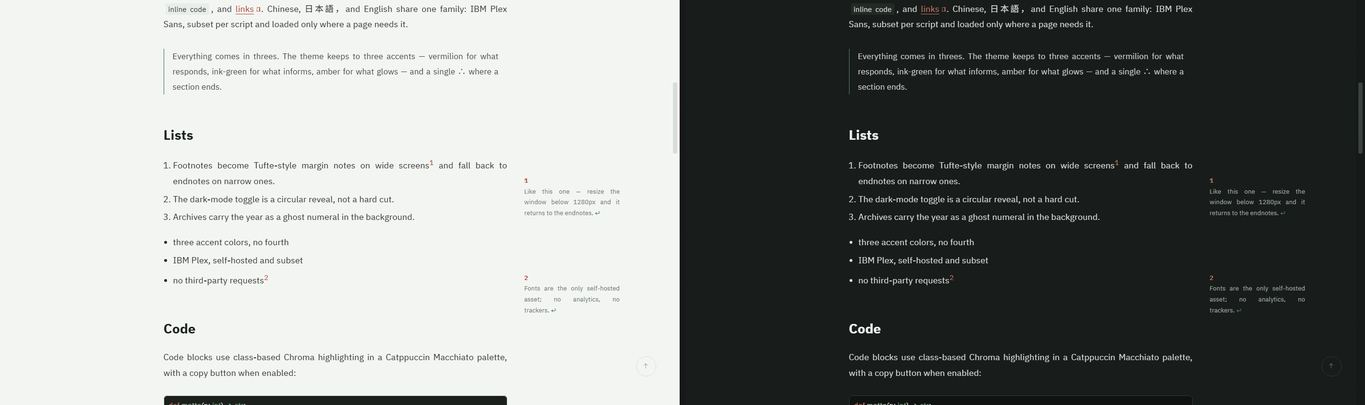
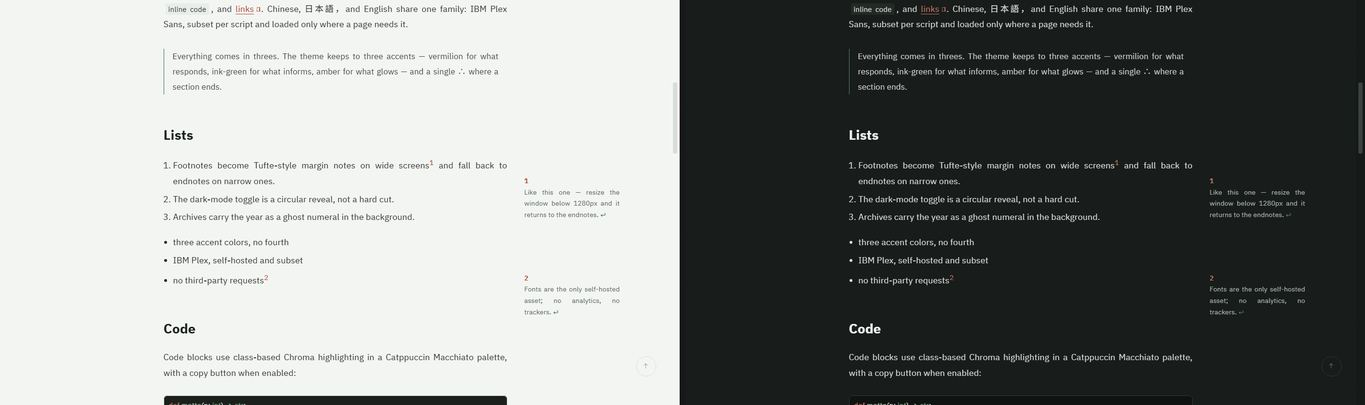
feat(demo): multilingual demo, sidenote content-loss fix, sidenote polish
Demo showcase + two real fixes surfaced by building it out.

Theme fixes (affect all sites):
- layouts/partials/extend_head.html + sigil.css + print.css: sidenotes
  only hid the endnotes when EVERY footnote converted. Previously any
  single .sidenote hid the whole endnote list, so a footnote whose
  reference sits outside p/li (e.g. a table cell) was silently dropped on
  wide screens. Now a `.sg-sidenotes-complete` class is set only when all
  notes moved to the margin; the hide rules key off it. Verified in a
  browser: all-in-paragraph hides endnotes; a mixed table keeps them.
- layouts/partials/header.html: `site.GetPage .KeyName` throws "ambiguous"
  and aborts the whole page on multilingual sites (same menu identifier in
  several languages). Guard with try + URL fallback; single-language
  behavior unchanged.
- sidenote typography: 13px -> 14px, color var(--sg-note) slightly stronger
  than --secondary (light 4.64->5.72:1, dark 7.7->9.11:1); vermilion number
  kept. Still clearly subordinate to body text.

Demo content:
- Multilingual: zh-cn + ja translations of all three posts + about, via
  filename-suffix convention; language switcher now works (中文/日本語/English).
- api.md rewritten as a pointer to docs/api.md (no more duplicated API doc
  that drifted); config-example.md and api.md: LLMSTXTFULL -> LLMSFULL and
  the ogCardFont note corrected (theme ships a Latin Plex Serif; build-fonts
  is for webfonts, not OG TTFs).
[…]

diff --git a/layouts/partials/extend_head.html b/layouts/partials/extend_head.html
@@ -140,7 +140,8 @@
     function build() {
         if (!document.querySelector(".post-content") || !document.querySelector(".footnotes")) return;
         if (!(window.CSS && CSS.supports && CSS.supports("selector(:has(a))"))) return;
-        document.querySelectorAll('.footnotes ol > li[id^="fn:"]').forEach(function (li) {
+        var notes = document.querySelectorAll('.footnotes ol > li[id^="fn:"]');
+        notes.forEach(function (li) {
             var num = li.id.slice(3);
             var ref = document.querySelectorAll('a[href="#fn:' + num + '"]')[0];
             if (!ref) return;
@@ -163,6 +164,20 @@
             ref.addEventListener("mouseenter", function () { point(true); });
             ref.addEventListener("mouseleave", function () { point(false); });
         });
+        // Only hide the endnotes when EVERY footnote moved to the margin.
+        // Recount from the DOM so repeated build() calls (load + 1.5s fallback)
+        // stay correct; a footnote whose reference sits outside p/li (e.g. a
+        // table cell) stays an endnote, so the set is not complete and the
+        // endnotes must remain visible — hiding them would lose that note.
+        var converted = 0;
+        notes.forEach(function (li) {
+            var num = li.id.slice(3);
+            if (document.querySelector('.sidenote[data-for="fn:' + num + '"]')) converted++;
+        });
+        var content = document.querySelector(".post-content");
+        if (content) {
+            content.classList.toggle("sg-sidenotes-complete", notes.length > 0 && converted === notes.length);
+        }
     }
     ready(build);
     window.addEventListener("load", build);

diff --git a/layouts/partials/header.html b/layouts/partials/header.html
@@ -69,7 +69,15 @@
             {{- range site.Menus.main }}
             {{- $menu_item_url := (cond (strings.HasSuffix .URL "/") .URL (printf "%s/" .URL) ) | absLangURL }}
             {{- $page_url:= $currentPage.Permalink | absLangURL }}
-            {{- $is_search := eq (site.GetPage .KeyName).Layout `search` }}
+            {{- /* 搜索项判定:按 KeyName 取页面 Layout。多语言站点下同一 identifier
+                 可能对应多个语言版本,site.GetPage 会报歧义而中断整页渲染——
+                 用 try 兜底,拿不到就退回按 URL 判断,保证单/多语言都不炸。 */ -}}
+            {{- $is_search := false -}}
+            {{- with try (site.GetPage .KeyName) -}}
+            {{- with .Value -}}{{- if eq .Layout "search" -}}{{- $is_search = true -}}{{- end -}}{{- end -}}
+            {{- else -}}
+            {{- if strings.HasSuffix .URL "/search/" -}}{{- $is_search = true -}}{{- end -}}
+            {{- end -}}
             <li>
                 <a href="{{ .URL | absLangURL }}" title="{{ .Title | default .Name }} {{- cond $is_search (" (Alt + /)" | safeHTMLAttr) ("" | safeHTMLAttr ) }}"
                 {{- cond $is_search (" accesskey=/" | safeHTMLAttr) ("" | safeHTMLAttr ) }}

diff --git a/assets/css/extended/sigil.css b/assets/css/extended/sigil.css
@@ -7,6 +7,7 @@
     --entry: #fbfcfa;
     --primary: #1d2420;
     --secondary: #68716b;
+    --sg-note: #5a635d; /* sidenote text: a touch stronger than secondary for margin legibility */
     --tertiary: #d8ddd9;
     --content: #252c28;
     --code-block-bg: #1b201d;
@@ -44,6 +45,7 @@ body {
     --entry: #1b201d;
     --primary: #eef1ed;
     --secondary: #a4ada7;
+    --sg-note: #b3bcb6;
     --tertiary: #3a433e;
     --content: #d9ded9;
     --code-block-bg: #101311;
@@ -2552,10 +2554,10 @@ html .header {
         clear: right;
         width: var(--note-w);
         margin: 4px calc(-1 * var(--note-w) - 36px) 18px 20px;
-        color: var(--secondary);
+        color: var(--sg-note);
         font-family: var(--sg-sans);
-        font-size: 13px;
-        line-height: 1.75;
+        font-size: 14px;
+        line-height: 1.7;
     }
 
     .sidenote .sidenote-number {
@@ -2578,7 +2580,7 @@ html .header {
         text-underline-offset: 3px;
     }
 
-    .post-content:has(.sidenote) .footnotes {
+    .post-content.sg-sidenotes-complete .footnotes {
         display: none;
     }
 }

diff --git a/assets/css/common/print.css b/assets/css/common/print.css
@@ -37,7 +37,7 @@
         font-size: 0.85em;
     }
 
-    .post-content:has(.sidenote) .footnotes {
+    .post-content.sg-sidenotes-complete .footnotes {
         display: none;
     }
 

diff --git a/exampleSite/content/posts/typography/index.ja.md b/exampleSite/content/posts/typography/index.ja.md
@@ -1,0 +1,55 @@
+---
+title: "組版"
+translationKey: "post-typography"
+categories:
+  - demo
+date: 2026-01-14
+slug: typography
+tags:
+  - demo
+  - typography
+math: true
+mermaid: true
+lightbox: true
+---
+
+Sigil はすべて三つ組：朱は応答、墨绿は情報、琥珀は輝き、
+段落の終わりに ∴ を置く。中文・日本語・English は IBM Plex Sans を共用し、
+脚本ごとにサブセットして必要なときだけ読み込む。[^fonts]
+
+広い画面では脚注が Tufte 式の辺注になり[^sidenote]、狭い画面では文末に戻る。
+
+## リスト
+
+1. 広画面は辺注、狭画面は文末脚注
+2. 円形に展開するダークモード切り替え
+3. ゴースト数字の年号アーカイブ
+
+- 強調色は三つ、四つ目はない
+- IBM Plex、自前ホストでサブセット
+- 第三者のリクエストは一切なし[^noreq]
+
+## コード
+
+```python
+def matte(r: int) -> str:
+    return "∴" * r
+```
+
+## 数式
+
+インライン $e^{i\pi} + 1 = 0$、そして：
+
+$$\zeta(s) = \sum_{n=1}^{\infty} \frac{1}{n^s}$$
+
+## 図
+
+```mermaid
+graph LR
+    A[紙] --> B[墨]
+    B --> C[∴]
+```
+
+[^fonts]: フォントは唯一の自前ホスト資産。解析も追跡もない。
+[^sidenote]: このように——ウィンドウを 1280px 未満にすると文末脚注に戻る。↩
+[^noreq]: 数式と図はページ単位で有効化。無効のページでは読み込まれない。

diff --git a/exampleSite/content/posts/typography/index.zh-cn.md b/exampleSite/content/posts/typography/index.zh-cn.md
@@ -1,0 +1,55 @@
+---
+title: "排版"
+translationKey: "post-typography"
+categories:
+  - demo
+date: 2026-01-14
+slug: typography
+tags:
+  - demo
+  - typography
+math: true
+mermaid: true
+lightbox: true
+---
+
+Sigil 的一切都成三：朱红标记会回应你的操作，墨绿承载信息，琥珀点亮高光，
+段落结尾落一个 ∴。中文、日本語与 English 共用 IBM Plex Sans，
+按脚本分子集、只在需要时加载。[^fonts]
+
+宽屏上，脚注会变成 Tufte 式边注[^sidenote]；窄屏则收回文末。
+
+## 列表
+
+1. 宽屏边注、窄屏尾注
+2. 圆形展开的暗色切换
+3. 幽灵数字年份的归档
+
+- 三个强调色，没有第四个
+- IBM Plex，自托管并子集化
+- 无任何第三方请求[^noreq]
+
+## 代码
+
+```python
+def matte(r: int) -> str:
+    return "∴" * r
+```
+
+## 公式
+
+行内 $e^{i\pi} + 1 = 0$，以及：
+
+$$\zeta(s) = \sum_{n=1}^{\infty} \frac{1}{n^s}$$
+
+## 图表
+
+```mermaid
+graph LR
+    A[纸] --> B[墨]
+    B --> C[∴]
+```
+
+[^fonts]: 字体是唯一自托管的资源；没有分析、没有追踪。
+[^sidenote]: 就像这条——把窗口缩到 1280px 以下，它会回到尾注。↩
+[^noreq]: 数学与图表按页面开启，未开启的页面一律不加载。

diff --git a/exampleSite/content/config-example.md b/exampleSite/content/config-example.md
@@ -75,7 +75,7 @@ The theme can advertise itself to machines as well as humans:
 
 ```toml
 [outputs]
-  home = ["HTML", "RSS", "JSON", "LLMSTXT", "LLMSTXTFULL", "JSONFeed"]
+  home = ["HTML", "RSS", "JSON", "LLMSTXT", "LLMSFULL", "JSONFeed"]
 
 [params]
   llmsTxtIntro = "A slow blog about X and Y."
@@ -89,7 +89,10 @@ paper background). The font must cover your titles' script:
 ```toml
 [params]
   ogAutoCard = true
-  ogCardFont = "fonts/og/og-card.ttf"   # build it with scripts/build-fonts.sh
+  # Optional: point at a TTF that covers your titles' script. The theme
+  # ships a Latin IBM Plex Serif by default (assets/og/plex-serif-regular.ttf);
+  # CJK sites should subset their own and reference it here.
+  # ogCardFont = "fonts/og/my-serif.ttf"
 ```
 
 ## Series

diff --git a/exampleSite/content/api.md b/exampleSite/content/api.md
@@ -91,7 +91,7 @@ front matter family (`cover.*`, `editPost.*`, `canonicalURL`, …).
 - `data/analytics.json`: optional. Recognized fields: `total` (int),
   `since` (YYYY-MM-DD), `days` (map, renders the footer sparkline).
 - Output formats shipped by the theme: `LLMSTXT` (`/llms.txt`),
-  `LLMSTXTFULL` (`/llms-full.txt`), `JSONFeed` (`/feed.json`),
+  `LLMSFULL` (`/llms-full.txt`), `JSONFeed` (`/feed.json`),
   search index (`index.json`). All opt-in via `outputs.home`.
 
 ## Extension points

diff --git a/exampleSite/content/posts/what-can-change.ja.md b/exampleSite/content/posts/what-can-change.ja.md
@@ -1,0 +1,15 @@
+---
+title: "人の本性を変えられるものは何か？"
+translationKey: "post-nature-of-man"
+categories:
+  - quotes
+date: 2026-01-12
+slug: what-can-change
+tags:
+  - demo
+  - planescape-torment
+---
+
+*プレインスケープ：トーマント*[^1] は、最初の画面から最後の画面まで、同じ問いを投げかける。
+
+[^1]: *Planescape: Torment*（1999、Black Isle Studios）。この台詞は名無しの者のもの。

diff --git a/exampleSite/content/posts/what-can-change.zh-cn.md b/exampleSite/content/posts/what-can-change.zh-cn.md
@@ -1,0 +1,15 @@
+---
+title: "什么能改变一个人的本性？"
+translationKey: "post-nature-of-man"
+categories:
+  - quotes
+date: 2026-01-12
+slug: what-can-change
+tags:
+  - demo
+  - planescape-torment
+---
+
+*异域镇魂曲*[^1] 从第一个画面到最后一个画面，都在问同一个问题。
+
+[^1]: *Planescape: Torment*（1999），黑岛工作室。这句台词属于无名氏。

diff --git a/exampleSite/content/posts/planescape-torment.ja.md b/exampleSite/content/posts/planescape-torment.ja.md
@@ -1,0 +1,17 @@
+---
+title: "出会いも別れも同じくらい難しい"
+translationKey: "post-meet-part"
+categories:
+  - quotes
+date: 2026-01-10
+slug: planescape-torment
+tags:
+  - demo
+  - poetry
+---
+
+*プレインスケープ：トーマント*[^1] の終章の詩——英語訳の一句：
+
+> What can change the nature of a man?
+
+[^1]: 結びの引用はゲーム終章より。

diff --git a/exampleSite/content/posts/planescape-torment.zh-cn.md b/exampleSite/content/posts/planescape-torment.zh-cn.md
@@ -1,0 +1,17 @@
+---
+title: "相见时难别亦难"
+translationKey: "post-meet-part"
+categories:
+  - quotes
+date: 2026-01-10
+slug: planescape-torment
+tags:
+  - demo
+  - poetry
+---
+
+*异域镇魂曲*[^1] 的结尾诗句——一句中文意境对应的英译：
+
+> What can change the nature of a man?
+
+[^1]: 结尾引文出自游戏终章。
